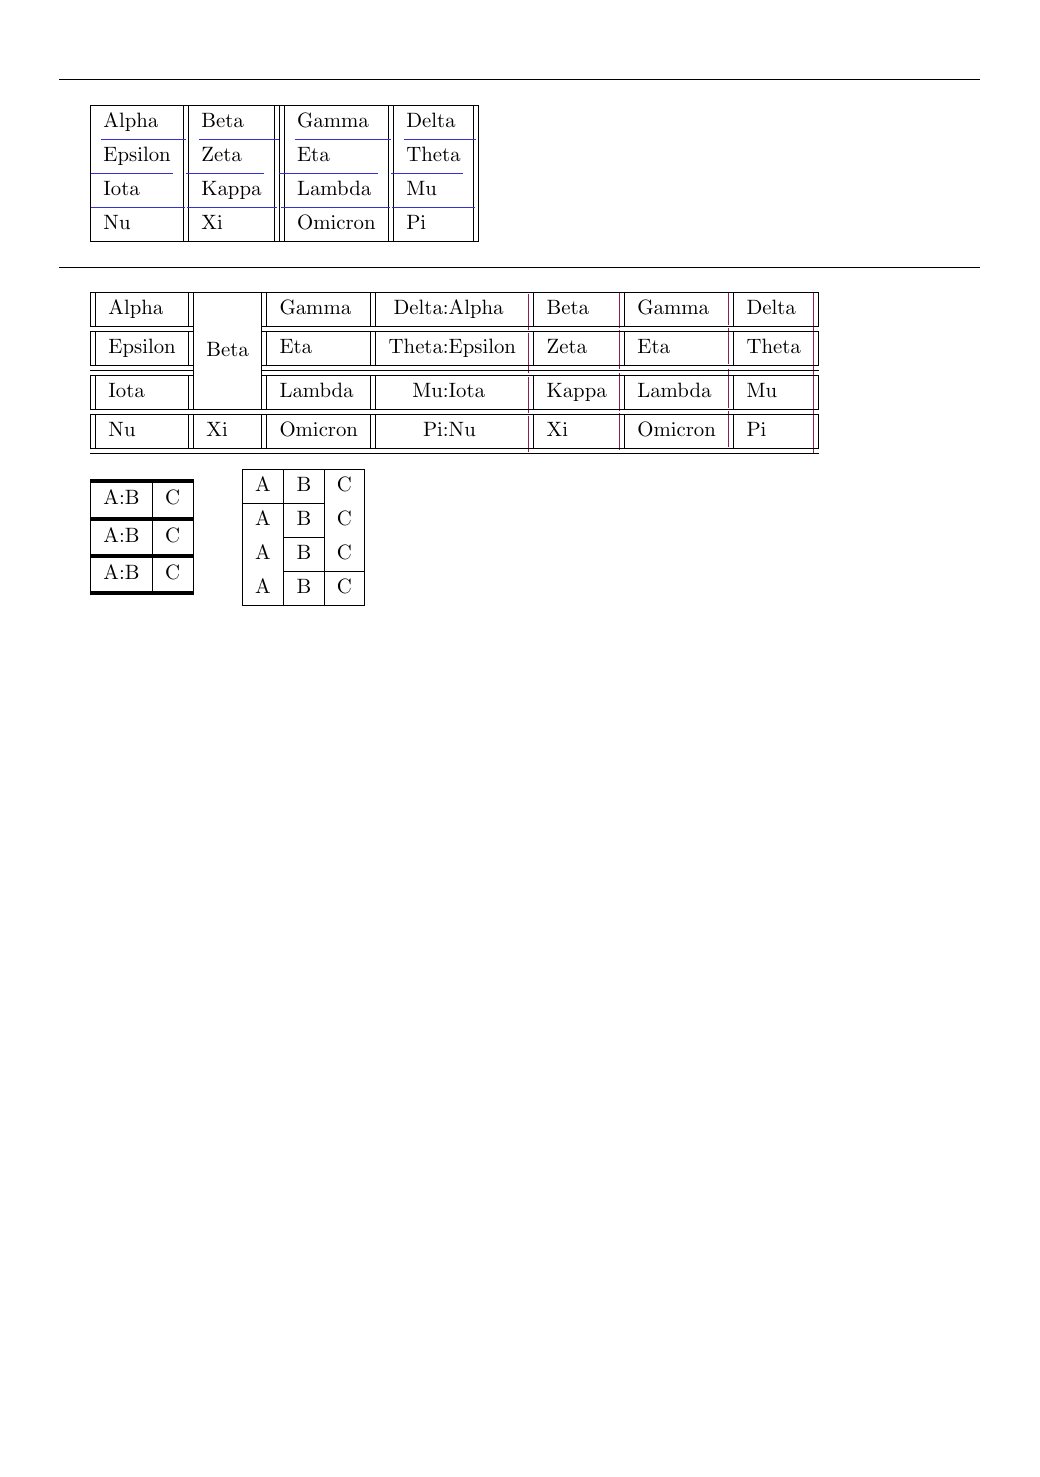
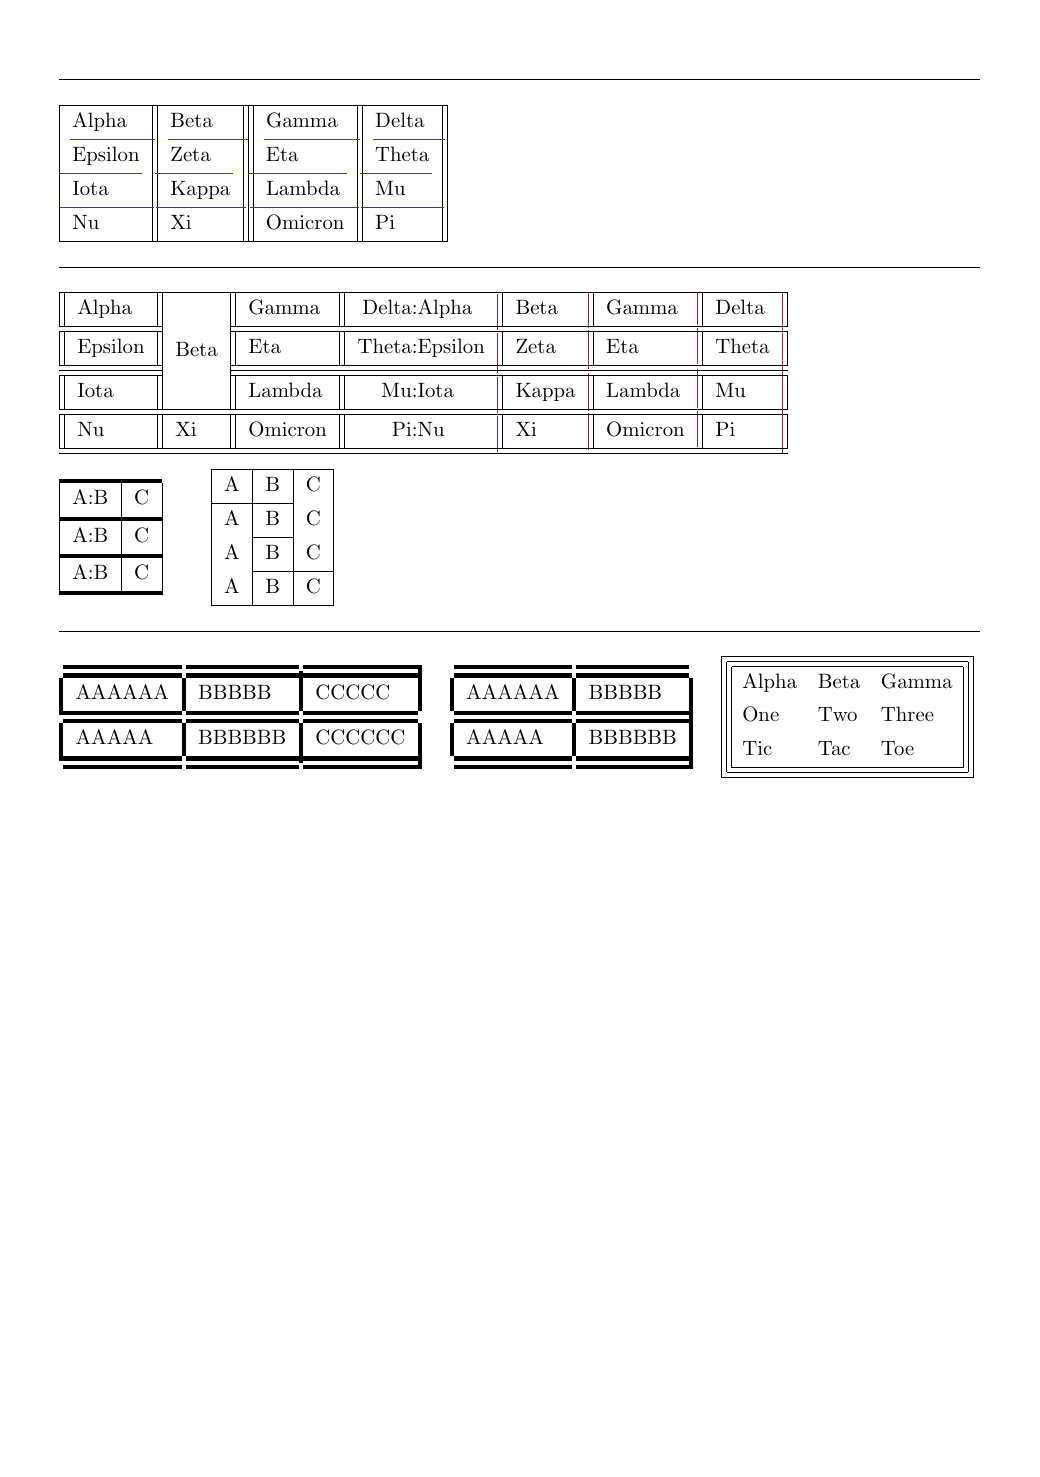
update test files

diff --git a/testfiles/hvline-003.tex b/testfiles/hvline-003.tex
@@ -10,6 +10,7 @@
 
 \SetTblrTracing{none}
 \UseTblrLibrary{varwidth}
+\setlength\parindent{0pt}
 
 \begin{document}
 
@@ -70,6 +71,57 @@
   \cline{2-3}
     A & B & C \\
   \hline
+\end{tblr}
+\ENDTEST
+
+\bigskip\hrule\bigskip
+
+\BEGINTEST{vline positions when belowpos=0}% #272
+\begin{tblr}{
+  hlines = {leftpos=0,rightpos=0,2pt},
+  hlines = {2}{-}{leftpos=0,rightpos=0,2pt},
+  vlines = {2pt},
+  vline{2} = {1}{abovepos=0,belowpos=0},
+  vline{3} = {1}{abovepos=0.5,belowpos=0},
+  vline{4} = {1}{abovepos=1,belowpos=0},
+  vline{2} = {2}{abovepos=0,belowpos=0},
+  vline{3} = {2}{abovepos=0,belowpos=0.5},
+  vline{4} = {2}{abovepos=0,belowpos=1},
+}
+  AAAAAA & BBBBB  & CCCCC  \\
+  AAAAA  & BBBBBB & CCCCCC 
+\end{tblr}
+\quad
+\begin{tblr}{
+  hlines = {leftpos=0,rightpos=0,2pt},
+  hlines = {2}{-}{leftpos=0,rightpos=0,2pt},
+  vlines = {2pt},
+  vline{1} = {abovepos=0,belowpos=0},
+  vline{2} = {abovepos=0,belowpos=0.00000001},
+  vline{3} = {abovepos=0,belowpos=1},
+}
+  AAAAAA & BBBBB  \\
+  AAAAA  & BBBBBB
+\end{tblr}
+\quad
+\begin{tblr}{
+    hline{1} = {1}{-}{},
+    hline{1} = {2}{-}{rightpos=0.5, leftpos=0.5},
+    hline{1} = {3}{-}{rightpos=0, leftpos=0},
+    hline{4} = {1}{-}{rightpos=0, leftpos=0},
+    hline{4} = {2}{-}{rightpos=0.5, leftpos=0.5},
+    hline{4} = {3}{-}{},
+    vline{1} = {1}{-}{abovepos=1, belowpos=1},
+    vline{1} = {2}{-}{abovepos=0.5, belowpos=0.5},
+    vline{1} = {3}{-}{},
+    vline{4} = {1}{-}{},
+    vline{4} = {2}{-}{abovepos=0.5, belowpos=0.5},
+    vline{4} = {3}{-}{abovepos=1, belowpos=1},
+    colsep = 5pt,
+  }
+  Alpha & Beta & Gamma \\
+  One   & Two  & Three \\
+  Tic   & Tac  & Toe \\
 \end{tblr}
 \ENDTEST
 

diff --git a/testfiles/extra-002.tex b/testfiles/extra-002.tex
@@ -74,4 +74,23 @@
 \end{tblr}
 \ENDTEST
 
+\bigskip\hrule\bigskip
+
+\BEGINTEST{named indexes U-Z}% #353
+\begin{tblr}{
+  hline{U-W}={dashed},row{V}={ht=2\baselineskip},
+  hline{X,Y,Z}, row{Y}={cmd=\fbox}
+}
+  Alpha   & Beta  & Gamma  & Delta \\
+  Epsilon & Zeta  & Eta    & Theta \\
+  Iota    & Kappa & Lambda & Mu    \\
+  Alpha   & Beta  & Gamma  & Delta \\
+  Epsilon & Zeta  & Eta    & Theta \\
+  Iota    & Kappa & Lambda & Mu    \\
+  Alpha   & Beta  & Gamma  & Delta \\
+  Epsilon & Zeta  & Eta    & Theta \\
+  Iota    & Kappa & Lambda & Mu
+\end{tblr}
+\ENDTEST
+
 \end{document}

diff --git a/testfiles/library-010.tex b/testfiles/library-010.tex
@@ -125,6 +125,16 @@ Other & Other \\
   Row5 & 5 \\
   Row6 & 6 \\
 \end{tblr}
+\begin{tblr}[evaluate=all]{hlines}
+  Row1 & 1 \\
+  Row2 & 2 \\
+  \someFunc{Text}
+  Row3 & 3 \\
+  Row4 & 4 \\
+  \otherFunc
+  Row5 & 5 \\
+  Row6 & 6 \\
+\end{tblr}
 \ENDTEST
 
 \bigskip\hrule\bigskip
